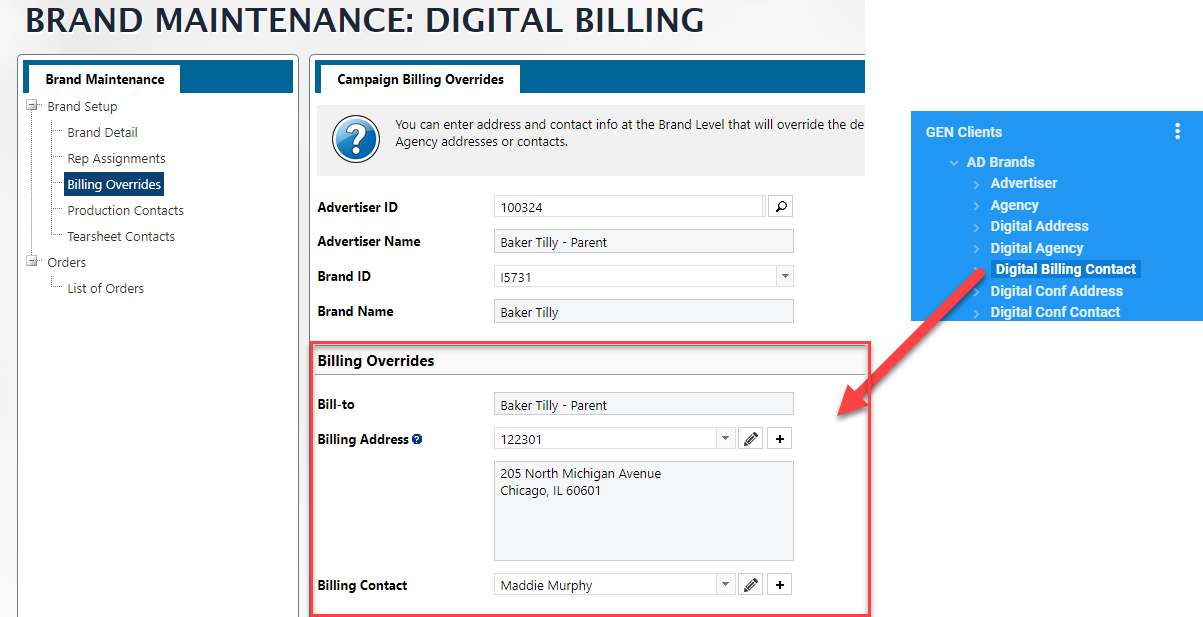
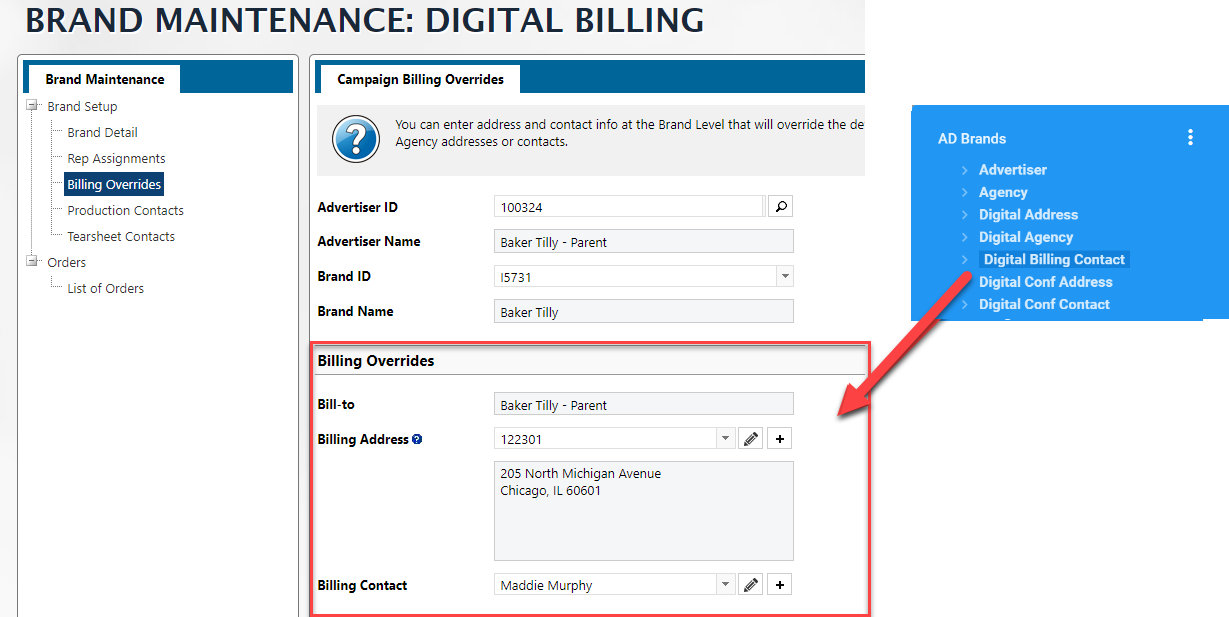
mapping updates

diff --git a/docs/informer/informer-mappings.md b/docs/informer/informer-mappings.md
@@ -1169,23 +1169,51 @@ Print Billing Delivery Method - `GEN Clients - Invoice Delivery Method (226)`
 
 ![img](images/informerMapping_gen_clients-003.png)
 
-### AD Brands
 
-Most of the time you will want to access Brand information in the context of a Client.  When writing a report that has the **GEN Clients** mapping in it, you will see that one of the relationships is **AD Brands**.  
+
+## AD Brands
+
+Most of the time you will want to access Brand information in the context of a Client.  When writing a report that has the **GEN Clients** mapping in it, you will see that one of the relationships is **AD Brands**, however, when you want to pull "setup" information about a Brand and its related Client, you will need to start from the AD Brands mapping.
 
 :::info
 
-The relationship from **GEN Clients** to **AD Brands** is a `1-many` relationship, which means that any fields you pull from AD Brands will be "mulivalued"
+If you are wanting Setup Information about Brands, you will want to have your base mapping be **AD Brands**
 
 :::
 
-#### Rep Assignments
+### Rep Assignments
+
+**Default Sales Reps Assignments for this Brand**
+
+The following fields from the AD Brands mapping are the default sales reps assignments for the selected brand.
+
+- **DIGITAL.REP.IDS <138>** - The Rep ID
+- **DIGITAL.REP.PCTS <139>** - The Rep's percentage
+
+To get the Sales Rep name and other details on the rep, go to the **Digital Salesrep** associated mapping.
+
+![img](images/informerMapping_repassignments_adbrand_011.png)
+
+---
 
 **Sales Rep Overrides by Product Group**
 
 :::caution
 
 Note that the relationship between the Digital Web Group ID and the Digital Web Rep ID is multivalued.  You can have multiple Product Groups in this override area **AND EACH** Product Group can have up to four Reps assigned to it!  This is why you see the **MS** next to the DIGITAL.WEB.REP.IDS <147> field.  It is indicating that it is Multivalued/subvalued.  
+
+Since you know that each Product Group can have only 4 reps, you could create a separate column for each using the code below in a Powerscript.
+
+```javascript
+if ($record['digitalWebRepIds']) {
+	$record['digitalWebRepIds'].forEach((el, index) => {
+	    $record[`GroupRep${index+1}`] = el
+        $record[`GroupRepPercent${index+1}`] = $record['digitalWebRepPcts'][index]
+	})
+}
+```
+
+>  Remember to add a Remove flow step to remove the **digitalWebRepIds** and **digitalWebRepIds** fields after you have converted them to columns.
 
 :::
 
@@ -1211,9 +1239,19 @@ If you need the Product Group detail information, you will need to either get th
 
 ![image-20220616104628165](images/informerMapping_gen_clients_repass_adbrand_002.png)
 
+---
 
+**Sales Rep Overrides by Product**
 
-#### Billing Overrides
+In the AD Brands mapping, you will only have access to the Product IDs, but **not** the reps associated with each product.  This is stored in another mapping that has not yet been added to Informer as of 07/2022.
+
+The Field is in the AD Brands mapping
+
+- **PRODUCT.IDS<185>** - The Pub Group ID
+
+![img](images/informerMapping_gen_adbrands_010.png)
+
+### Billing Overrides
 
 **Billing Contact**
 
